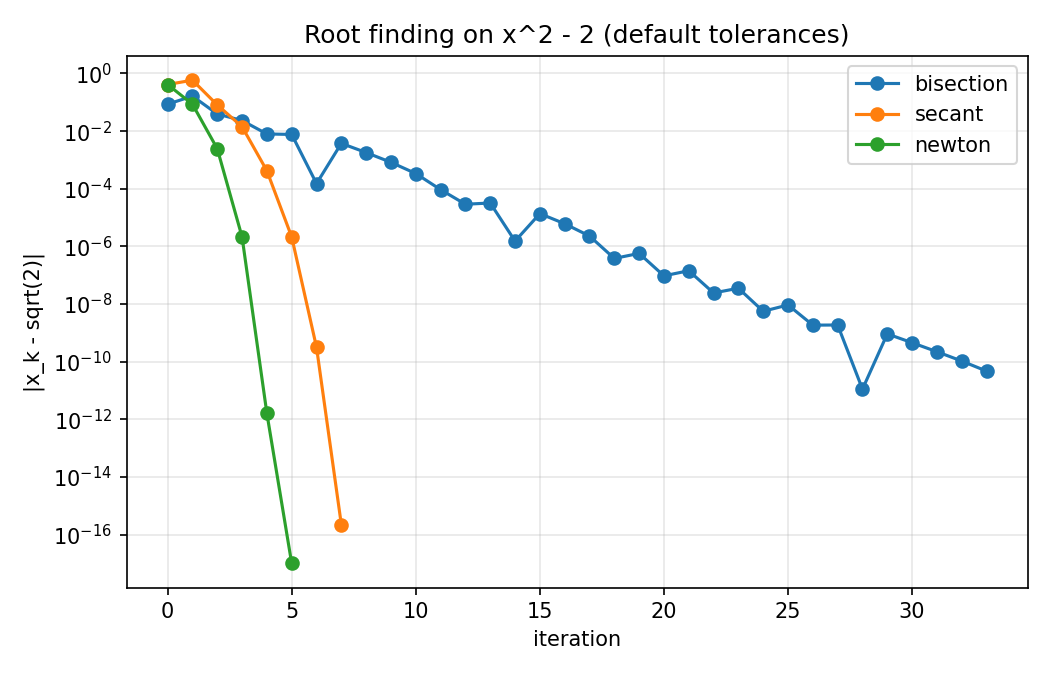
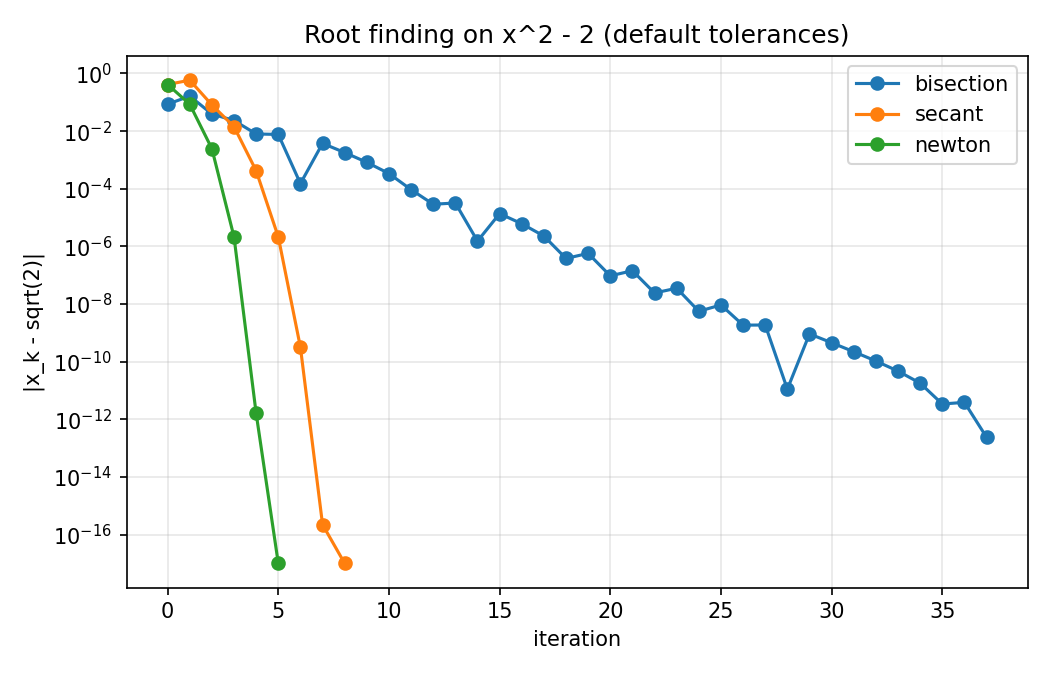
Root finding: stop on step AND residual, with round-off safeguard
Resolves OI-4 (D30 amendment). The study showed the "either" rule stops
too early on flat functions ((x-1)^3: error ~1e-4). Requiring both a
small step and a small residual fixes that, but on steep functions the
residual target can be unreachable in floating point, so strict "both"
never stopped (bisection/Newton) or raised a misleading
ZeroDerivativeError (secant). The iteration now also stops when the step
reaches round-off level (4 * eps * |x|).

- root_finding.py: new stopping test; a tolerance of 0 disables that test.
- Tests for the flat and steep cases on all three methods.
- Study: steep large-x problem added; stopping-rule table regenerated.
- DECISIONS.md: D30 amendment, OI-4 resolved; config.yaml comment.

455 tests pass offline.

diff --git a/src/tyredeg/numerics/root_finding.py b/src/tyredeg/numerics/root_finding.py
@@ -15,9 +15,20 @@ newton      f'(x) and one       quadratic (order 2)     needs f'; fails if
             starting point                              f'(x) = 0
 ==========  ==================  ======================  ========================
 
-Stopping rule (DECISIONS.md D30): stop as soon as EITHER the step is small,
-|x_new - x_old| <= xtol, OR the residual is small, |f(x_new)| <= ftol.
-Setting one tolerance to 0 switches that test off.
+Stopping rule (DECISIONS.md D30, amended by OI-4): stop only when BOTH the
+step is small, |x_new - x_old| <= xtol, AND the residual is small,
+|f(x_new)| <= ftol. Requiring both protects against the two ways a single
+test can stop too early: on a flat function (e.g. (x - 1)^3) |f| is tiny
+long before x is accurate, and on a steep function a small step can still
+leave a large |f|. Setting one tolerance to 0 switches that test off, so
+``ftol=0`` means "step test only" and ``xtol=0`` means "residual test only".
+
+Round-off safeguard: floating-point numbers near x are about eps*|x| apart,
+so for a steep function even the closest representable x can leave
+|f| > ftol. Requiring both tests would then never stop. The iteration
+therefore also stops when the step has shrunk to round-off level,
+|step| <= 4 * eps * |x|: x cannot become any more accurate, so it is
+returned as the best root available in floating point.
 
 Failures (D31) raise a subclass of ``ValueError``:
 :class:`NoSignChangeError`, :class:`ZeroDerivativeError`,
@@ -36,6 +47,12 @@ DEFAULT_XTOL = 1.0e-10
 DEFAULT_FTOL = 1.0e-12
 DEFAULT_MAX_ITER = 100
 DEFAULT_DIVERGENCE_LIMIT = 1.0e10
+
+EPS = np.finfo(float).eps
+# A step of at most this many floating-point spacings (eps * |x|) means x can
+# no longer change meaningfully. Like the pivot tolerance in
+# linear_solvers.py, this is a machine-precision constant, not a tuning choice.
+ROUNDOFF_STEPS = 4
 
 
 class NoSignChangeError(ValueError):
@@ -104,9 +121,16 @@ def _check_iterate(x, divergence_limit, method):
         raise DivergenceError(f"{method} diverged: iterate {x} exceeds the limit {divergence_limit}.")
 
 
-def _is_converged(step, f_value, xtol, ftol):
-    """Stopping rule D30: small step OR small residual."""
-    return abs(step) <= xtol or abs(f_value) <= ftol
+def _is_converged(step, f_value, x, xtol, ftol):
+    """Stopping rule (D30 amended, OI-4): small step AND small residual,
+    or a step so small that x has reached floating-point precision.
+
+    A tolerance of 0 means that test is switched off (always passes).
+    """
+    step_is_small = xtol == 0 or abs(step) <= xtol
+    residual_is_small = ftol == 0 or abs(f_value) <= ftol
+    at_roundoff_level = abs(step) <= ROUNDOFF_STEPS * EPS * abs(x)
+    return (step_is_small and residual_is_small) or at_roundoff_level
 
 
 # ---------------------------------------------------------------------------
@@ -127,9 +151,11 @@ def bisection(f, a, b, xtol=DEFAULT_XTOL, ftol=DEFAULT_FTOL, max_iter=DEFAULT_MA
     a, b : float
         Bracket ends with ``a < b`` and ``f(a) * f(b) <= 0``.
     xtol : float, optional
-        Stop when the half-width of the bracket is <= xtol (>= 0). Default 1e-10.
+        Step tolerance: the half-width of the bracket must be <= xtol (>= 0;
+        0 switches the test off). Default 1e-10. See the module docstring.
     ftol : float, optional
-        Stop when |f(midpoint)| <= ftol (>= 0). Default 1e-12.
+        Residual tolerance: |f(midpoint)| must be <= ftol (>= 0; 0 switches
+        the test off). Default 1e-12.
     max_iter : int, optional
         Maximum iterations (>= 1). Default 100.
 
@@ -150,7 +176,7 @@ def bisection(f, a, b, xtol=DEFAULT_XTOL, ftol=DEFAULT_FTOL, max_iter=DEFAULT_MA
     -------
     >>> result = bisection(lambda x: x**2 - 2, 1.0, 2.0)
     >>> round(result.root, 9), result.iterations
-    (1.414213562, 34)
+    (1.414213562, 38)
     """
     _check_settings(xtol, ftol, max_iter)
     a, b = float(a), float(b)
@@ -170,7 +196,8 @@ def bisection(f, a, b, xtol=DEFAULT_XTOL, ftol=DEFAULT_FTOL, max_iter=DEFAULT_MA
         f_mid = _evaluate(f, midpoint)
         history.append(midpoint)
         half_width = (b - a) / 2.0
-        if half_width <= xtol or abs(f_mid) <= ftol:
+        # The half-width bounds the distance to the root, so it is the step test.
+        if _is_converged(half_width, f_mid, midpoint, xtol, ftol):
             return RootResult(midpoint, iteration, np.array(history))
         # Keep the half in which the sign changes.
         if f_a * f_mid < 0:
@@ -228,7 +255,7 @@ def secant(
     -------
     >>> result = secant(lambda x: x**2 - 2, 1.0, 2.0)
     >>> round(result.root, 12), result.iterations
-    (1.414213562373, 6)
+    (1.414213562373, 7)
     """
     _check_settings(xtol, ftol, max_iter)
     x0, x1 = float(x0), float(x1)
@@ -244,7 +271,7 @@ def secant(
         _check_iterate(x_new, divergence_limit, "secant")
         f_new = _evaluate(f, x_new)
         history.append(x_new)
-        if _is_converged(step, f_new, xtol, ftol):
+        if _is_converged(step, f_new, x_new, xtol, ftol):
             return RootResult(x_new, iteration, np.array(history))
         x0, f0, x1, f1 = x1, f1, x_new, f_new
     raise NotConvergedError(f"secant did not converge in {max_iter} iterations.")
@@ -318,6 +345,6 @@ def newton(
         _check_iterate(x, divergence_limit, "newton")
         f_x = _evaluate(f, x)
         history.append(x)
-        if _is_converged(step, f_x, xtol, ftol):
+        if _is_converged(step, f_x, x, xtol, ftol):
             return RootResult(x, iteration, np.array(history))
     raise NotConvergedError(f"newton did not converge in {max_iter} iterations.")

diff --git a/tests/test_root_finding.py b/tests/test_root_finding.py
@@ -103,8 +103,21 @@ def test_newton_needs_fewer_iterations_than_secant_and_bisection():
 
 
 # ---------------------------------------------------------------------------
-# Stopping rule (D30)
+# Stopping rule (D30, amended after OI-4: step AND residual + round-off safeguard)
 # ---------------------------------------------------------------------------
+def steep(x):
+    """Steep function (slope ~1e5 at the root x ~ 34.01): the closest floats to
+    the root leave |f| ~ 1e-11, so |f| <= 1e-12 cannot be reached."""
+    return 1e4 * (np.exp(x / 10.0) - 30.0)
+
+
+def steep_prime(x):
+    return 1e3 * np.exp(x / 10.0)
+
+
+STEEP_ROOT = 10.0 * np.log(30.0)
+
+
 def test_tighter_tolerance_gives_more_accurate_root():
     loose = bisection(square_minus_two, 1.0, 2.0, xtol=1e-4, ftol=0.0)
     tight = bisection(square_minus_two, 1.0, 2.0, xtol=1e-12, ftol=0.0)
@@ -112,22 +125,43 @@ def test_tighter_tolerance_gives_more_accurate_root():
     assert abs(tight.root - ROOT_2) < abs(loose.root - ROOT_2)
 
 
-def test_either_tolerance_alone_can_stop_the_iteration():
+def test_both_tests_must_pass_by_default():
+    result = newton(square_minus_two, square_minus_two_prime, 1.0)
+    step = abs(result.history[-1] - result.history[-2])
+    assert step <= 1e-10 and abs(square_minus_two(result.root)) <= 1e-12
+
+
+def test_a_zero_tolerance_switches_that_test_off():
     by_step = newton(square_minus_two, square_minus_two_prime, 1.0, ftol=0.0)
     by_residual = newton(square_minus_two, square_minus_two_prime, 1.0, xtol=0.0)
     assert abs(by_step.root - ROOT_2) < 1e-10
     assert abs(square_minus_two(by_residual.root)) <= 1e-12
 
 
-def test_residual_test_stops_early_on_a_flat_function():
-    # Documented weakness of the residual test (study, N7): for (x-1)^3 the
-    # residual is tiny long before x is accurate, so the "either" rule stops
-    # with |x - 1| ~ 1e-4, whereas the step test alone reaches ~1e-10.
+def test_both_rule_is_accurate_on_a_flat_function():
+    # Study finding (OI-4): for (x-1)^3 the residual test alone stops with
+    # |x - 1| ~ 1e-4 because |f| is tiny long before x is accurate; requiring
+    # a small step as well gives ~1e-10.
     f = lambda x: (x - 1.0) ** 3  # noqa: E731
-    either = bisection(f, 0.5, 1.7)
-    step_only = bisection(f, 0.5, 1.7, ftol=0.0)
-    assert abs(either.root - 1.0) > 1e-5
-    assert abs(step_only.root - 1.0) < 1e-9
+    residual_only = bisection(f, 0.5, 1.7, xtol=0.0)
+    both = bisection(f, 0.5, 1.7)
+    assert abs(residual_only.root - 1.0) > 1e-5
+    assert abs(both.root - 1.0) < 1e-9
+
+
+@pytest.mark.parametrize("method", ["bisection", "secant", "newton"])
+def test_roundoff_safeguard_on_a_steep_function(method):
+    # Without the safeguard, requiring |f| <= 1e-12 here never stops (bisection,
+    # Newton) or ends in a misleading ZeroDerivativeError (secant).
+    runs = {
+        "bisection": lambda: bisection(steep, 30.0, 40.0),
+        "secant": lambda: secant(steep, 30.0, 40.0),
+        "newton": lambda: newton(steep, steep_prime, 35.0),
+    }
+    result = runs[method]()
+    assert abs(steep(result.root)) > 1e-12   # the residual target was unreachable ...
+    # ... yet the root is within a few floating-point spacings of the truth.
+    assert abs(result.root - STEEP_ROOT) <= 8 * np.spacing(STEEP_ROOT)
 
 
 # ---------------------------------------------------------------------------

diff --git a/scripts/numerics_study.py b/scripts/numerics_study.py
@@ -217,8 +217,15 @@ def study_root_finding():
                                           0.5, 1.7, 1.0),
         "exp(10 x) - 2 (steep)": (lambda x: np.exp(10 * x) - 2.0, lambda x: 10 * np.exp(10 * x),
                                   0.0, 0.2, np.log(2.0) / 10),
+        # |f| <= 1e-12 is unreachable in floating point here (slope ~1e5 at x ~ 34):
+        # this is the case that needs the round-off safeguard (OI-4).
+        "1e4 (exp(x/10) - 30) (steep, large x)": (lambda x: 1e4 * (np.exp(x / 10) - 30.0),
+                                                  lambda x: 1e3 * np.exp(x / 10),
+                                                  30.0, 40.0, 10 * np.log(30.0)),
     }
-    rules = {"step only": dict(ftol=0.0), "residual only": dict(xtol=0.0), "either (approved)": {}}
+    # A tolerance of 0 switches that test off, so these give the three rules.
+    rules = {"step only": dict(ftol=0.0), "residual only": dict(xtol=0.0),
+             "both + round-off safeguard (approved)": {}}
     rows = []
     for problem, (g, gprime, a, b, true_root) in problems.items():
         for rule, tolerances in rules.items():

diff --git a/DECISIONS.md b/DECISIONS.md
@@ -464,6 +464,32 @@ Evidence comes from `scripts/numerics_study.py`. It writes tables to `reports/ph
 - How it is validated: `test_either_tolerance_alone_can_stop_the_iteration`, `test_residual_test_stops_early_on_a_flat_function`, `test_last_step_is_shortened_to_hit_t_end`.
 - Proposed by AI, approved by me ("experiment with other methods": done, see OI-4).
 
+## D30 amendment: root-finder stopping rule ("both" + round-off safeguard)
+- Phase / date: Phase 3 / 2026-10-24 (resolves OI-4)
+- Options considered:
+  - (a) keep "either";
+  - (b) step only;
+  - (c) "both": stop only when the step AND the residual are small;
+  - (c′) "both", plus a round-off safeguard.
+- Decision: **(c′)**. Stop when `|step| ≤ xtol` **and** `|f| ≤ ftol`, **or** when the step has shrunk to round-off level, `|step| ≤ 4·eps·|x|`. A tolerance of 0 switches that test off: `ftol = 0` means step only, `xtol = 0` means residual only.
+- Justification:
+  - Each single test can stop too early: the residual test on flat functions, the step test on steep ones. Requiring both takes the stricter result.
+  - **Strict (c) does not work in general.** When the closest floats to the root leave |f| > ftol, it never stops.
+  - The safeguard stops once x can no longer change, returning the best root available in floating point.
+- Source / evidence:
+  - **Strict (c) failure** (before the safeguard), on f = 10⁴·(e^(x/10) − 30), root ≈ 34.01: bisection and Newton raised `NotConvergedError`; secant raised a misleading `ZeroDerivativeError`. "Step only" converged in 5–37 iterations.
+  - **Study with (c′)** (`reports/phase3_root_finding_stopping_rules.csv`): in all 12 method/problem cases, the error is equal to the better of "step only" and "residual only".
+
+    | Problem | (c′) | Step only | Residual only |
+    |---|---|---|---|
+    | Flat root (x − 1)³ | 2.3e-11 to 2.5e-10 | same | 7.8e-5 to 9.8e-5 |
+    | Steep roots, bisection | 7e-15 to 2e-14 | 2.6e-11 to 8.9e-11 | same as (c′) |
+
+  - **Cost:** more iterations only on the flat root (bisection 34 vs 12). x² − 2 now takes 38 bisection and 7 secant iterations (previously 34 and 6).
+  - The factor 4 in the safeguard is a machine-precision constant in the code (like the pivot tolerance), not a tuning value.
+- How it is validated: `test_both_tests_must_pass_by_default`, `test_a_zero_tolerance_switches_that_test_off`, `test_both_rule_is_accurate_on_a_flat_function`, `test_roundoff_safeguard_on_a_steep_function` (all three methods).
+- Proposed by AI. I first chose (c); the AI then found it can fail to terminate, stopped, and proposed (c′), which I approved.
+
 ## D31: Root-finder failure detection
 - Phase / date: Phase 3 / 2026-10-24
 - Options considered: divergence = (a) a non-finite iterate or |x| > 1e10; (b) also |f| increasing for 3 iterations in a row.
@@ -617,7 +643,7 @@ for cross-validation and KNN. Also, Phase 6 requires a one-stop race on two
 *different* compounds (dry-race rule), which a HARD-only model cannot cover on
 its own.
 
-## OI-4: Root-finder stopping rule on flat functions (from the Phase 3 study)
+## OI-4: Root-finder stopping rule on flat functions (from the Phase 3 study) — RESOLVED by the D30 amendment
 With the approved "either" rule (D30), the residual test |f| ≤ 1e-12 can stop
 too early when f is flat near the root: on (x − 1)³ the result is only
 accurate to about 1e-4. A "step only" rule reaches about 1e-10 there, at
